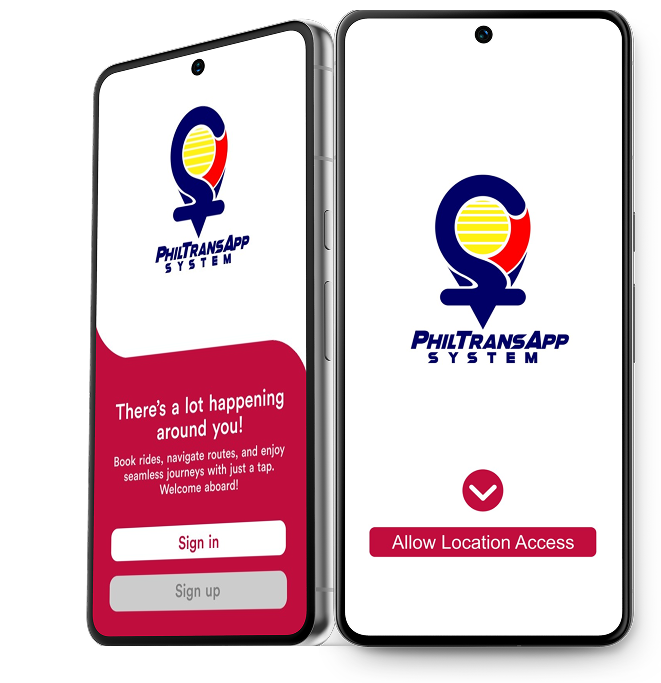
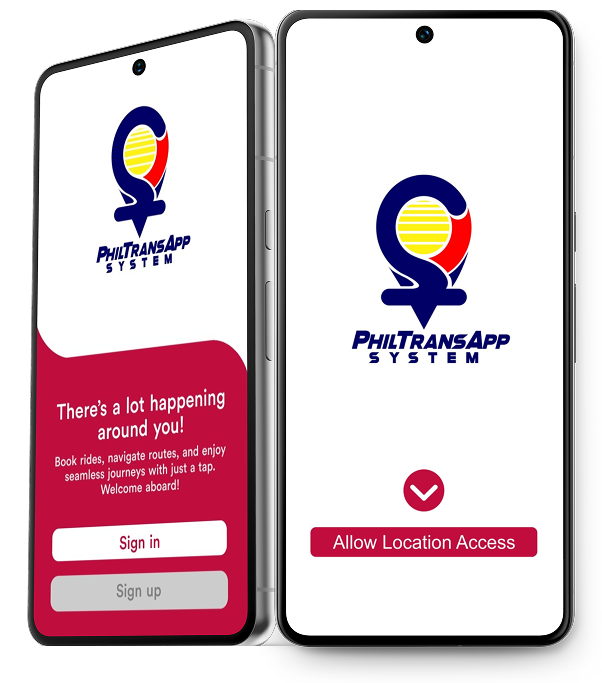
responive update

Changed region(s): [[0.0299, 0.0, 0.9867, 0.9839], [0.5681, 0.246, 0.8671, 0.5534], [0.6877, 0.0307, 0.7475, 0.0615]]

diff --git a/public/main/style/main.css b/public/main/style/main.css
@@ -11976,8 +11976,7 @@ textarea.form-control-lg {
 }
 .download {
   background-image: url("../images/nav_section/top_background.png");
-  height: 100vh;
-  width: 100%;
+  width: auto;
   background-repeat: no-repeat;
   background-size: contain;
   padding-bottom: 5vh;
@@ -12204,7 +12203,7 @@ footer {
   .downloadbg {
     background-color: #BF0D3D;
     width: 100vw;
-    height: 100%;
+    height: auto;
     overflow: hidden;
   }
   .download {
@@ -12218,4 +12217,4 @@ footer {
   .mobile {
     display: block;
   }
-}/*# sourceMappingURL=main.css.map */
+}

diff --git a/public/main/style/main.scss b/public/main/style/main.scss
@@ -7,8 +7,7 @@ $danger: #BF0D3D;
 
 .download {
   background-image: url("../images/nav_section/top_background.png");
-  height: 100vh;
-  width: 100%;
+  width: auto ;
   background-repeat: no-repeat;
   background-size: contain;
   padding-bottom: 5vh;
@@ -246,7 +245,7 @@ footer{
   .downloadbg {
     background-color: #BF0D3D;
     width: 100vw;
-    height: 100%;
+    height: auto;
     overflow: hidden;
   }
     .download {

diff --git a/public/src/components/welcome.php b/public/src/components/welcome.php
@@ -1,11 +1,7 @@
 <section class="mt-5">
-    <div class="d-flex flex-column flex-lg-row justify-content-center gap-3">
-        <img src="imgs/ads1.png" alt="">
-        <img src="imgs/ads2.png" alt="">
-    </div>
-    <div class="container mt-5 pt-5 d-flex flex-column flex-lg-row justify-content-between gap-5">
+    <div class="mt-5 pt-5 d-flex flex-column flex-lg-row justify-content-between gap-3 mx-3 ">
         <img src="../../public/main/images/intro_section/welcome_img.png" alt="">
-        <div class="my-5 text-danger">
+        <div class="my-5 text-danger fs-5">
             <h4 class=" fw-bold display-5"> Welcome to <span class="text-secondary">Philippine Transportation </span> App System</h4>
             <p>Philippine Transportation App System PTAS breaks the mold of traditional transportation apps. They're not just about getting you from point A to point B; they're shaking up the transportation industry with a people-centric approach.</p>
             <p>In essence, PTAS represents a paradigm shift in transportation, where the focus lies not only on the journey's endpoint but also on enhancing the journey itself. It's about fostering empowerment, enriching experiences, and prioritizing the well-being of both drivers and passengers in every aspect of their transportation needs.</p>

diff --git a/public/src/components/download.php b/public/src/components/download.php
@@ -4,7 +4,7 @@
 
     <!-- Text & Buttons Column -->
     <div class="h1style mb-4 mb-md-0 px-5">
-      <h1 class="fw-bold text-white mb-3 display-1">DOWNLOAD OUR APP <span class="text-warning">NOW!</span></h1>
+      <h1 class="fw-bold text-white mb-3 display-3">DOWNLOAD OUR APP <span class="text-warning">NOW!</span></h1>
       <p class="desktop textstyle text-white mb-4 fs-3">Download the Philippine Trans App System today and experience transportation like never before. Whether you're traveling for business or pleasure, our app makes getting around the Philippines easier, safer, and more convenient than ever before.</p>  
 
       <div class="icons d-flex gap-5 flex-md-row flex-sm-row flex-lg-row flex-column justify-content-center justify-content-md-center justify-content-lg-start">

diff --git a/public/src/components/ads/ads_1.php b/public/src/components/ads/ads_1.php
@@ -1,6 +1,6 @@
-<section class="py-4">
-    <div class="d-flex flex-column flex-md-row justify-content-center align-items-center gap-3">
-        <img src="../../public/main/images/ads_section/ads_no_1.png" class="img-fluid" alt="Adkoto image" >
-        <img src="../../public/main/images/ads_section/ads_no_2.png" class="img-fluid" alt="Adkoto image">
+<section class="mt-5">
+    <div class="d-flex flex-column flex-xl-row justify-content-center align-items-center gap-3">
+        <img src="../../public/main/images/ads_section/ads_no_1.png" alt="Adkoto image" class="img-fluid" style="max-width: 100%;">
+        <img src="../../public/main/images/ads_section/ads_no_2.png" alt="Adkoto image" class="img-fluid" style="max-width: 100%;">
     </div>
 </section>

diff --git a/public/src/components/ads/ads_2.php b/public/src/components/ads/ads_2.php
@@ -1,6 +1,6 @@
 <section class="py-4">
-    <div class="d-flex flex-column flex-md-row justify-content-center align-items-center gap-3">
-        <img src="../../public/main/images/ads_section/ads_no_3.png" class="img-fluid" alt="Adkoto image" >
-        <img src="../../public/main/images/ads_section/ads_no_4.png" class="img-fluid" alt="Adkoto image">
+    <div class="d-flex flex-column flex-xl-row justify-content-around gap-3">
+        <img src="../../public/main/images/ads_section/ads_no_3.png" class="img-fluid" alt="Adkoto image" style="width: 50%;">
+        <img src="../../public/main/images/ads_section/ads_no_4.png" class="img-fluid" alt="Adkoto image" style="width: 50%;">
     </div>
 </section>

diff --git a/public/src/components/about.php b/public/src/components/about.php
@@ -1,10 +1,10 @@
-<section class="text-white my-5" style="background-color: #BF0D3D; height: 70vh;">
+<section class="text-white my-5" style="background-color: #BF0D3D; height: auto;">
   <!-- Desktop Layout: Image Right, Text Left -->
   <div class="container py-5 d-none d-lg-block">
     <div class="row align-items-center ">
       <!-- Left Column (Text Content) -->
       <div class="col-lg-6 text-start">
-        <h1 class="fw-bold display-3">ABOUT US</h1>
+        <h1 class="fw-bold display-5">ABOUT US</h1>
         <h2 class="fw-semibold mb-3 mt-4">
           PTAS: REVOLUTIONIZING RIDES AND REDEFINING THE TRICYCLE INDUSTRY
         </h2>

diff --git a/public/src/components/services.php b/public/src/components/services.php
@@ -1,5 +1,5 @@
 <section class="services pb-5">
-    <h4 class="text-white text-center pt-5 ">SERVICES</h4>
+    <h4 class="text-white text-center pt-5 display-5 fw-bold">SERVICES</h4>
     <img src="../../public/main/images/services_section/Service_img.png" alt="Service Image" class="w-75 img-fluid py-3 mx-auto d-block">
 
     <div class="services-card w-75 p-3 mx-auto d-block text-white rounded my-3">

diff --git a/public/src/components/testimonial.php b/public/src/components/testimonial.php
@@ -9,7 +9,7 @@
     <div class="vh-80 mt-5">
         <div class="text-danger text-center my-4">
             <h5>What our Client Says</h5>
-            <h4 class="fw-bold">TESTIMONIALS</h4>
+            <h4 class="fw-bold display-5">TESTIMONIALS</h4>
         </div>
         <div class="owl-carousel owl-theme py-5 justify-content-center mt-5 my-auto container">
             ${testimonials.map(test => `

diff --git a/public/src/components/contact.php b/public/src/components/contact.php
@@ -1,6 +1,6 @@
 <section class="contact text-center text-white">
     <div class="container py-5">
-        <h5 class="fs-3">Contact us</h5>
+        <h5 class="display-5 fw-bold">Contact us</h5>
         <p> </p>
         <!-- Wrapper to center form -->
         <div class="row justify-content-center">

diff --git a/public/src/index.php b/public/src/index.php
@@ -29,7 +29,7 @@
     </section>
     
     <section id="#">
-      <?php include 'components/ads/ads_1.php';?>
+      <?php include 'components/ads/ads_2.php';?>
     </section>
 
     <section id="testimonial">
